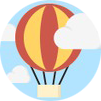
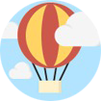
acender ícones redondos

Changed region(s): [[0.0, 0.0, 1.0, 0.9802], [0.802, 0.5644, 0.8317, 0.5941]]

diff --git a/src/index.html b/src/index.html
@@ -24,7 +24,7 @@
         </ul>
     </nav>
     <section class="expl-text">
-        <p>Pessoas feridas por meios de transporte nos EUA</p>
+        <p>Estatística de pessoas feridas por meio de transporte rodoviário nos EUA</p>
       </section>
   </header>
 
@@ -49,7 +49,7 @@
     </table>
     <table id="value" class="table">
       <tr>
-        <th class="column2">Valor</th>
+        <th class="column2">Pessoas feridas</th>
       </tr>
     </table>
     <p id="par"></p>
@@ -64,12 +64,12 @@
   <script src="main.js"></script>
   
   <section class="circle">
-    <img src="assets/carro.png" alt="icone carro">
-    <img src="assets/moto.png" alt="icone moto">
-    <img src="assets/trem.png" alt="icone trem">
-    <img src="assets/barco.png" alt="icone barco">
-    <img src="assets/balao.png" alt="icone balao">
-    <img src="assets/aviao.png" alt="icone aviao">
+    <img src="assets/carro.png" class="acende" alt="icone carro">
+    <img src="assets/trem.png" class="acende" alt="icone trem">
+    <img src="assets/bike.png" class="acende" alt="icone bike">
+    <img src="assets/barco.png" class="acende" alt="icone barco">
+    <img src="assets/balao.png" class="acende" alt="icone balao">
+    <img src="assets/aviao.png" class="acende" alt="icone aviao">
 </section>
 
   
@@ -86,7 +86,7 @@
       </div>
     </section>
     <section class="copyright">
-      <p>Copyright © SaLa Estatística 2019</p>
+      <p>Copyright © SaLa Estatística 2019 - Todos os direitos reservados.</p>
     </section>
   </footer>
 </body>

diff --git a/src/style.css b/src/style.css
@@ -41,7 +41,7 @@ li:hover {
     height: 60px;
     color: rgb(252, 249, 249);
     font-family: Arial, Helvetica, sans-serif;
-    font-size: 23px;
+    font-size: 20px;
     text-align: center;
     padding-top: 30px;
 
@@ -62,7 +62,7 @@ li:hover {
  }
 
 select{
-    margin: 30px;
+    margin: 30px 0px;
     align-items: center;
 }
 
@@ -102,6 +102,11 @@ a{
    font-size: 30px;
    text-align: center;
    padding-top: 14px;
+   
+}
+
+a:link {
+    color: #3d4a5a;
 }
 
 .copyright{
@@ -120,4 +125,21 @@ a{
     align-items: center;
     justify-content: space-between;
     margin: 35px 70px;
+}
+
+.circle :hover {
+    cursor: pointer;
+}
+
+img.acende {
+    opacity: 0.88; 
+    -moz-opacity: 0.88;
+    Filter: Alpha(Opacity=90)
+ }
+    
+    
+img.acende:hover {
+    opacity: 1.0; 
+    -moz-opacity: 1.0;
+     Filter: Alpha(Opacity=100)
 }
